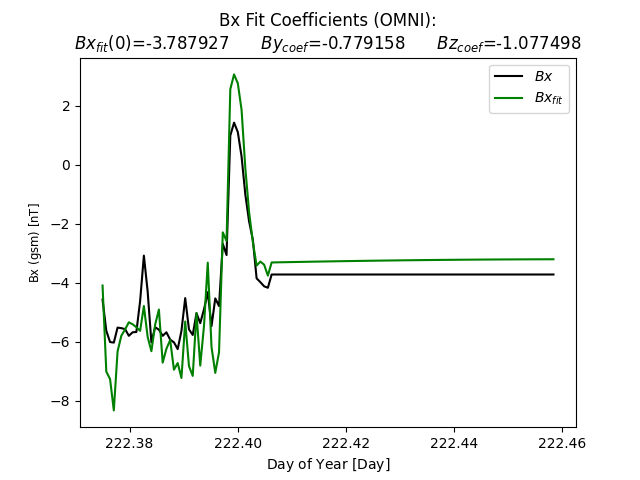
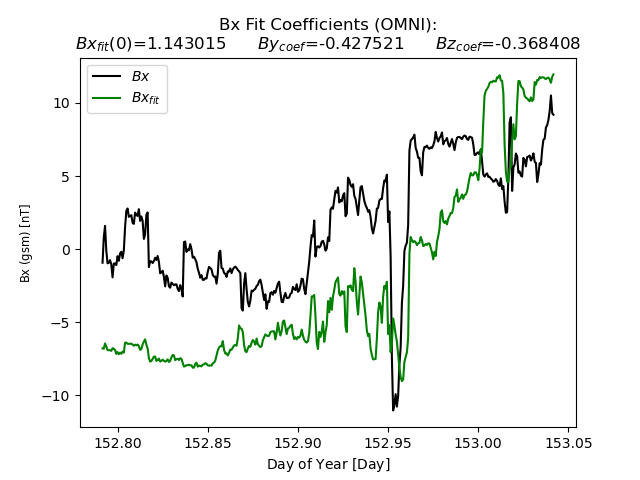
Updated sw files and GTR run doc

diff --git a/docs/source/running/geoGTRQuickStart.rst b/docs/source/running/geoGTRQuickStart.rst
@@ -81,12 +81,13 @@ in the `TIEGCM Quick Start Guide <https://tiegcm-docs.readthedocs.io/en/latest/t
 Lets take an example of building the TIEGCM code for a ``Q`` run on ``derecho``:
 #########################################################################################
 
-1. First we will create a directory for the TIEGCM build
+1. First we will create a directory for the "Q" TIEGCM build in the TIEGCMHOME directory.
 
 .. code-block:: bash
 
-    mkdir tiegcm_build
-    cd tiegcm_build
+    cd $TIEGCMHOME
+    mkdir tiegcm_build_Q
+    cd tiegcm_build_Q
 
 2. Next, we will build the standalone TIEGCM executable by running the ``tiegcmrun.py`` script with the ``-oc``.
 
@@ -216,16 +217,26 @@ For this example, we will run the code on ``derecho``, and use the default
 each prompt, you can either type in a value, or hit the :kbd:`Return` key to
 accept the default value (shown in square brackets at the end of the prompt).
 
-Copy the executables you built in the previous steps to your run directory.
+Running ``engage.py``
+************************************************
+
+1. First we will create a directory for the "Q" TIEGCM build in the TIEGCMHOME directory.
 
 .. code-block:: bash
 
-    cp tiegcm_build/stdout/tiegcm.exe .
-    cp tiegcm_build/stdouttiegcm.x .
-    cp $KAIJUHOME/build_mpi/bin/voltron_mpi.x .
+    mkdir quickstart_gtr
+    cd quickstart_gtr
+
+2. Copy the executables you built in the previous steps to your run directory.
+
+.. code-block:: bash
+
+    cp $TIEGCMHOME/tiegcm_build_Q/stdout/tiegcm.exe .
+    cp $TIEGCMHOME/tiegcm_build_Q/stdouttiegcm.x .
+    cp $KAIJUHOME/build_gtr/bin/voltron_mpi.x .
 
 
-To get started, run ``engage.py`` with no arguments:
+3. Run ``engage.py`` with no arguments:
 
 .. code-block:: bash
 
@@ -365,6 +376,9 @@ You should see output similar to this:
     pbs_scripts = ['./geospace-01.pbs', './geospace-02.pbs']
     submit_all_jobs_script = geospace_pbs.sh
 
+Looking at files generated by ``engage.py``
+**************************************************************
+
 You should now see the following files in your run directory:
 
 .. code-block:: bash
@@ -425,6 +439,9 @@ file (``bcwind.h5``). Those plots should look similar to this:
 
 .. image:: sw.png
 
+Submitting the GTR model run
+*************************************
+
 Finally, submit the model run using the script generated by ``engage.py``.
 You will see the resulting PBS job ID (your job ID will differ from what is
 shown below).
@@ -447,6 +464,9 @@ shown below).
     9770238.desched1
     9770239.desched1
     9770240.desched1
+
+Understanding the output files of the GTR model run
+**************************************************************************
 
 Once the job is started in the queue, it should take about 80 minutes to run
 (on ``derecho``). When complete, you will see many new HDF5 files in your
